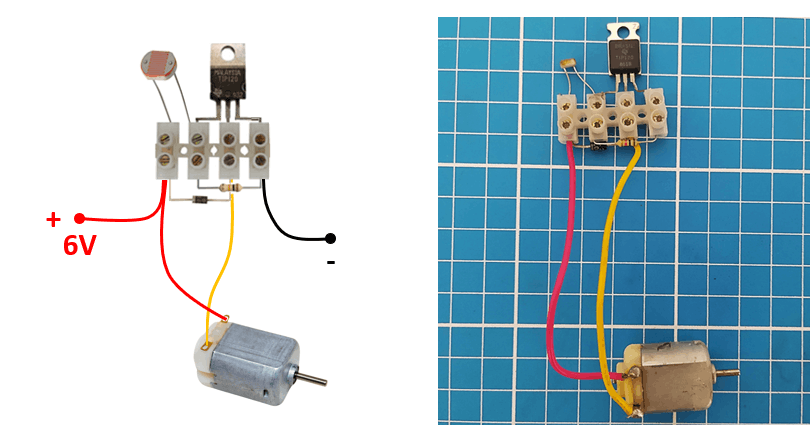
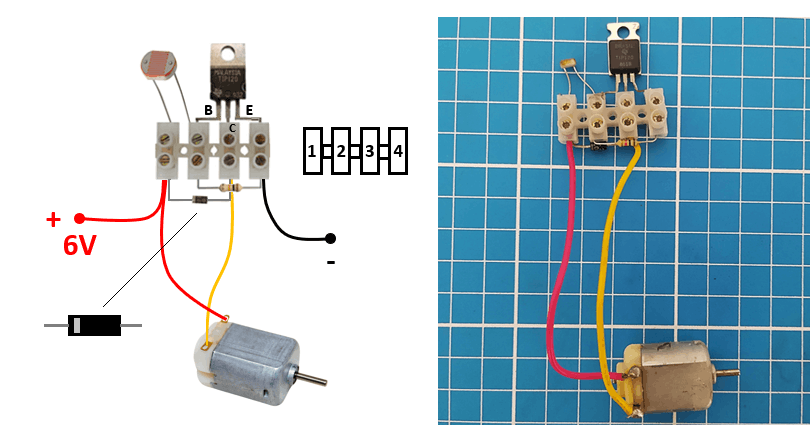
ajustes no conteúdo

diff --git a/projeto/robo-escova.html b/projeto/robo-escova.html
@@ -1,0 +1,196 @@
+<!DOCTYPE html>
+<html lang="pt-br">
+
+<head>
+    <meta charset="UTF-8">
+    <meta name="viewport" content="width=device-width, initial-scale=1.0">
+    <title>Robô Escova</title>
+    <link rel="stylesheet" href="../css/style.css">
+    <meta name="description"
+        content="Robótica livre com reaproveitamento de materiais e sucata eletrônica. Um projeto divertido que transforma uma escova de limpeza em um robô vibratório, utilizando motor DC com contrapeso e pilhas para se movimentar sem rodas ou programação.">
+    <link rel="icon" href="../img/favicon.png">
+</head>
+
+<body>
+    <!-- Cabeçalho -->
+    <header>
+        <div class="FlexMenu">
+            <div id="logo">
+                <img src="../img/logo.png" alt="logo robótica prática">
+            </div>
+            <!-- Menu -->
+            <nav>
+                <input type="checkbox" id="check">
+                <label for="check">&#x268c;</label>
+                <ul>
+                    <li><a href="../index.html"><span id="s1">&#9733;</span> Home</a></li>
+                    <li><a href="../robotica.html"><span id="s4">&#9733;</span> Robótica</a></li>
+                    <li><a href="../projetos.html"><span id="s3">&#9733;</span> Laboratório Maker</a></li>
+                    <li><a href="../sobre.html"><span id="s2">&#9733;</span> Sobre</a></li>
+                </ul>
+            </nav>
+        </div>
+    </header>
+
+    <!-- Banner das páginas -->
+    <main class="BannerPaginas Flex">
+        <div class="Container">
+            <h1>Robô Escova</h1>
+        </div>
+    </main>
+
+    <!-- Conteúdo -->
+    <div class="Container main-content-wrapper">
+        <div class="trilha-container">
+            <nav class="trilha" aria-label="Trilha de tópicos">
+                <div class="linha"></div>
+                <div class="linha-progresso"></div>
+                <a href="#topico1">
+                    <div class="bullet"></div><span>Introdução</span>
+                </a>
+                <a href="#topico2">
+                    <div class="bullet"></div><span>Lógica</span>
+                </a>
+                <a href="#topico3">
+                    <div class="bullet"></div><span>Materiais</span>
+                </a>
+                <a href="#topico4">
+                    <div class="bullet"></div><span>Montagem</span>
+                </a>
+            </nav>
+        </div>
+
+        <div class="content">
+            <section id="topico1">
+                <h2>Robô Escova</h2>
+                <p>Prepare-se para dar uma missão especial àquela escova de limpeza esquecida na lavanderia! Neste projeto, vamos transformar uma simples escova em um robô vibratório capaz de se movimentar sozinho. E o melhor: sem programação, sem Arduino e sem precisar recorrer ao lado sombrio da tecnologia! 🪥⚡</p>
+                <br>
+                <img src="../img/roboBUG.png" alt="robô BUG">
+                <br><br>
+                <a href="https://youtube.com/shorts/KyAKiTyG2ws?si=BWPU91z3_wt1ewrM" target="_blank"><img src="../img/tvyoutube.png" alt="YouTube" title="Ver no YouTube"></a>
+                
+                <hr>
+                <section id="topico2">
+                    <h2>Controle de motores DC com chaves fim de curso
+                    </h2>
+                    <p>Aqui está o cérebro do robô! Você vai descobrir como duas simples chaves fim de curso controlam
+                        os motores DC. Quando o BUG esbarra em um obstáculo, uma das chaves “avisa” o motor para mudar o
+                        sentido, e o robô faz uma manobra digna de um inseto esperto tentando escapar da vassoura!</p>
+                    <h3>Chave fim de curso</h3>
+                    <img src="../img/chave-fim-de-curso.png" alt="chave fim de curso">
+                    <p>A chave fim de curso é um botão mecânico muito sensível que consegue abrir ou fechar um circuito
+                        quando algo encosta nela.</p>
+                    <br>
+                    <p>Ela possui três pinos:</p>
+                    <ul>
+                        <li>COM (comum): pino principal, por onde a corrente entra ou sai.</li>
+                        <li>NO (normalmente aberto): conecta-se ao COM apenas quando a chave é pressionada.</li>
+                        <li>NC (normalmente fechado): está sempre conectado ao COM, mas se abre quando a chave é
+                            pressionada.</li>
+                    </ul>
+                    <h3>Controle do sentido de um motor DC</h3>
+                    <p>Um motor DC gira em um sentido ou em outro dependendo da direção da corrente elétrica. Se a
+                        corrente vai de um lado para o outro, ele gira para frente e se você inverte a corrente, ele
+                        gira
+                        para trás. É assim que podemos usar a chave fim de curso para controlar a direção do motor
+                        apenas mudando a polaridade da tensão.</p>
+                    <img src="../img/inverter-sentido-motorDC.png" alt="sentido motor DC">
+                    <h3>Lógica principal</h3>
+                    <p>No robô BUG, as “antenas” são hastes ligadas às suas respectivas chaves fim de curso, funcionando
+                        assim:</p>
+                    <br>
+                    <ol>
+                        <li>O robô anda sempre pra frente com os dois motores ligados às pilhas.</li>
+                        <li>Se a antena direita encosta em um obstáculo, ela pressiona a chave fim de curso
+                            correspondente. Essa chave inverte a corrente do motor esquerdo, fazendo-o girar para trás.
+                        </li>
+                        <li> Com o motor esquerdo indo pra trás e o direito pra frente, o robo gira para a esquerda,
+                            desviando do obstáculo.</li>
+                        <li>O mesmo acontece com a antena esquerda: ao bater, a chave inverte o motor direito, e o robo
+                            gira para a direita.</li>
+                        <li>Dessa forma, cada chave fim de curso age como um “detector mecânico” que decide qual motor
+                            inverter, permitindo que o robo desvie dos obstáculos automaticamente.</li>
+                    </ol>
+                </section>
+                <hr>
+                <section id="topico3">
+                    <h2>Lista de materiais</h2>
+                    <p>Tudo que você precisa pode estar guardado no fundo da gaveta ou esperando uma segunda chance na
+                        caixa de sucata!</p>
+                    <br>
+                    <p>Separe:</p>
+                    <ul>
+                        <li>1 CD-ROM</li>
+                        <li>1 tubo vazio de desodorante roll-on</li>
+                        <li>2 motores DC 3 a 6 V</li>
+                        <li>2 chaves fim de curso (microswitches)</li>
+                        <li>suporte para uma bateria de íon de lítio (2 peças)</li>
+                        <li>2 Baterias íon de lítio de 3.7 V</li>
+                        <li>Chave HH 6 terminais e 2 posições (Ligar/Desligar o robô)</li>
+                        <li>Fios, parafusos, fita isolante, fita dupla face e cola quente</li>
+                    </ul>
+                    <br>
+                    <p>Observações:</p>
+                    <p>Os motores podem vir de carrinhos
+                        de brinquedo, as chaves fim de curso de impressoras e as baterias podem ser substituídas por
+                        pilhas AA ou AAA (neste caso, use dois suportes com duas pilhas cada). A chave HH também pode
+                        ser obtida de fontes antigas.</p>
+                    <br>
+                    <img src="../img/lista-material-robo-BUG.png" alt="materiais robô BUG">
+                </section>
+                <hr>
+                <section id="topico4">
+                    <h2>Montagem</h2>                    
+                    <p>Agora é hora de colocar a mão na massa!</p>
+                    <br>
+                    <ol>
+                        <li>Comece furando o CD e cortando o tubo de desodorante roll-on.</li>
+                        <li>Instale as chaves fim de curso na frente como se fossem as antenas do inseto.</li>
+                        <li>Fixe os motores e a parte cortada do tubo de desodorante.</li>
+                        <li>Fixe os suportes de bateria e a chave HH.</li>
+                    </ol>
+                    <br>
+                    <img src="../img/montagem-robo-BUG.png" alt="montagem-robo-BUG">
+                    <p>5. Por fim, solde os fios conforme o diagrama elétrico do projeto. <a
+                            href="https://youtu.be/MJF3RquRH34?si=JLc9o8oZuM8N2-14" target="_blank">&nbsp;▶ Como usar
+                            um ferro
+                            de solda</a></p>
+                    <h3>Diagrama elétrico</h3>
+                    <img src="../img/esquema-eletrico-robo-BUG.png" alt="esquema elétrico robô BUG">
+
+                    <br><br>
+                    <p>⚡Teste, ajuste e veja seu robô ganhar vida — ou melhor, movimento! Se tudo der certo, o Robô BUG
+                        vai sair andando por aí, desviando de obstáculos como quem está fugindo da faxina!</p>
+                </section>
+        </div>
+    </div>
+
+    <!-- Rodapé -->
+    <footer>
+        <div class="Container Flex">
+            <div id="social">
+                <a href="https://www.youtube.com/c/RoboticapraticaBr" target="_blank"><img src="../img/youtube.png"
+                        alt="youtube"></a>
+                <a href="https://www.linkedin.com/in/professorjosedeassis" target="_blank"><img
+                        src="../img/linkedin.png" alt="linkedin"></a>
+                <a href="https://www.facebook.com/professorjosedeassis" target="_blank"><img src="../img/facebook.png"
+                        alt="facebook"></a>
+                <a href="https://www.instagram.com/prof.joseassis/" target="_blank"><img src="../img/instagram.png"
+                        alt="instagram"></a>
+                <a href="https://twitter.com/joseassis" target="_blank"><img src="../img/twitter.png" alt="twitter"></a>
+            </div>
+            <div id="copyright">
+                <p>©<span id="copyrightYear"></span> - Robótica Prática</p>
+            </div>
+        </div>
+    </footer>
+
+    <!-- Topo do site -->
+    <a href="#logo" id="topo"><img src="../img/topo.png" alt="seta topo"></a>
+
+    <script src="../js/script.js"></script>
+    <script src="../js/trilha.js"></script>
+</body>
+</body>
+
+</html>

diff --git a/projeto/carrinho-mecatronico.html b/projeto/carrinho-mecatronico.html
@@ -77,10 +77,9 @@
                 <br>
                 <img src="../img/carrinho-mecatronico.jpg" alt="carrinho mecatrônico">
                 <br><br>
-                <!--
-                <p><a href="https://youtube.com/shorts/KyAKiTyG2ws?si=BWPU91z3_wt1ewrM" target="_blank">▶ Ver no
-                        YouTube</a></p>
-                -->
+                <a href="https://youtube.com/shorts/AtaQXMchPVs?si=YJsaZPvkYGarFasA" target="_blank"><img
+                        src="../img/tvyoutube.png" alt="YouTube" title="Ver no YouTube"></a>
+
                 <hr>
                 <section id="topico2">
                     <h2>Sensor de luz que controla o motor</h2>
@@ -122,6 +121,10 @@
                         produzidos pelo motor.</p>
                     <h3>Circuito elétrico</h3>
                     <img src="../img/circuito-carrinho.png" alt="circuito elétrico carrinho mecatrônico">
+                    <img src="../img/montagem-carrinho-mecatrônico.png" alt="montagem carrinho mecatrônico">
+                    <br>
+                    <a href="https://www.tinkercad.com/things/7IZL6gWjd0L-carrinho-mecatronico" target="_blank"><img
+                            src="../img/tinkercad-simular.png" alt="Tinkercad" title="Simular no Thinkercad"></a>
                 </section>
                 <hr>
                 <section id="topico3">
@@ -131,7 +134,7 @@
                         brinquedos quebrados e outras sucatas.</p>
                     <p>A ideia aqui é simples: antes de comprar alguma coisa, dê uma olhada naquela caixa de "coisas que
                         um dia podem ser úteis". Você provavelmente sabe qual é. 😄</p>
-
+                    <br>
                     <img src="../img/lista-material-carrinho.jpg" alt="materiais carrinho mecatrônico">
                     <br>
                     <p>Separe os seguintes materiais:</p>
@@ -180,11 +183,65 @@
                     <h2>Montagem</h2>
                     <p>Agora é hora de colocar a mão na massa!</p>
                     <h3>1. Comece montando o circuito elétrico</h3>
-                    <img src="../img/montagem-carrinho-mecatrônico.png" alt="montagem carrinho mecatrônico">
-                    <br>
-                    <p>Montagem na barra de conectores parafusados:</p>
+                    <p>Não quer usar ferro de solda ou prefere uma montagem mais rápida e fácil de ajustar? A barra de
+                        conectores parafusados (tipo sindal) é a nossa grande aliada aqui! Ela funciona como um "lego"
+                        da eletrônica: você encaixa os terminais dos componentes, aperta o parafuso com uma chave de
+                        fenda e pronto. 🪛⚡</p>
                     <br>
                     <img src="../img/sensor-LDR.png" alt="sensor LDR">
+                    <p>Siga este passo a passo para montar o circuito nos 4 terminais da barra (vamos numerar da
+                        esquerda para a direita como 1, 2, 3 e 4):</p>
+                    <br>
+                    <ul>
+                        <li>
+                            Posicione o transistor TIP120: Olhando o transistor de frente (com a parte escrita virada
+                            para você), encaixe os três pinos dele diretamente nos terminais 2, 3 e 4 da barra. Aperte
+                            os parafusos com cuidado para prender bem.
+                            <ul>
+                                <li>Terminal 2: Base (B)</li>
+                                <li>Terminal 3: Coletor (C)</li>
+                                <li>Terminal 4: Emissor (E)</li>
+                            </ul>
+                            <br>
+                        </li>
+
+                        <li>
+                            Instale o resistor de 10 k&Omega;: Encaixe uma perninha do resistor no Terminal 2 (junto com
+                            a Base do TIP120) e a outra perninha no Terminal 4 (junto com o Emissor). Ele não tem
+                            polaridade, então qualquer lado serve.
+                            <br><br>
+                        </li>
+
+                        <li>
+                            Conecte o sensor LDR, encaixe uma ponta no Terminal 2 e a outra
+                            no Terminal 1 da barra. Assim como o resistor, o LDR também não tem lado certo.
+                            <br><br>
+                        </li>
+
+                        <li>
+                            Proteja o circuito com o diodo 1N4007: Atenção à faixa cinza no corpo do diodo! Encaixe o
+                            lado com a faixa no Terminal 1 e o lado sem a faixa no Terminal 3 (junto com o Coletor do
+                            transistor).
+                            <br><br>
+                        </li>
+
+                        <li>
+                            Ligue o motor DC: Conecte um fio do motor no Terminal 3 e o outro fio do motor no Terminal 1
+                            (exatamente nos mesmos terminais do diodo).
+                            <br><br>
+                        </li>
+
+                        <li>
+                            Conecte a bateria (alimentação): Por fim, ligue o fio positivo (+ / vermelho) do suporte da
+                            bateria no Terminal 1 e o fio negativo (- / preto) no Terminal 4.
+                        </li>
+                    </ul>
+                    <br>
+                    <p>💡 Dica de ouro: Antes de apertar os parafusos até o final, dê uma puxadinha de leve em cada fio
+                        e componente para ter certeza de que nenhum escapou ou ficou frouxo. Mau contato é o inimigo
+                        número 1 das gambiarras que funcionam! 😄</p>
+
+                        <br>
                     <p>⚠ Atenção: Encaixe a hélice no eixo do motor e faça um teste do circuito. Ilumine o LDR e
                         verifique se o motor é acionado corretamente. Observe também o sentido do vento produzido pela
                         hélice. Ela deve empurrar o ar para trás, para que, quando o conjunto for instalado no carrinho,

diff --git a/projeto/robo-bug.html b/projeto/robo-bug.html
@@ -72,8 +72,7 @@
                 <br>
                 <img src="../img/roboBUG.png" alt="robô BUG">
                 <br><br>
-                <p><a href="https://youtube.com/shorts/KyAKiTyG2ws?si=BWPU91z3_wt1ewrM" target="_blank">▶ Ver no
-                        YouTube</a></p>
+                <a href="https://youtube.com/shorts/KyAKiTyG2ws?si=BWPU91z3_wt1ewrM" target="_blank"><img src="../img/tvyoutube.png" alt="YouTube" title="Ver no YouTube"></a>                
                 <hr>
                 <section id="topico2">
                     <h2>Controle de motores DC com chaves fim de curso
